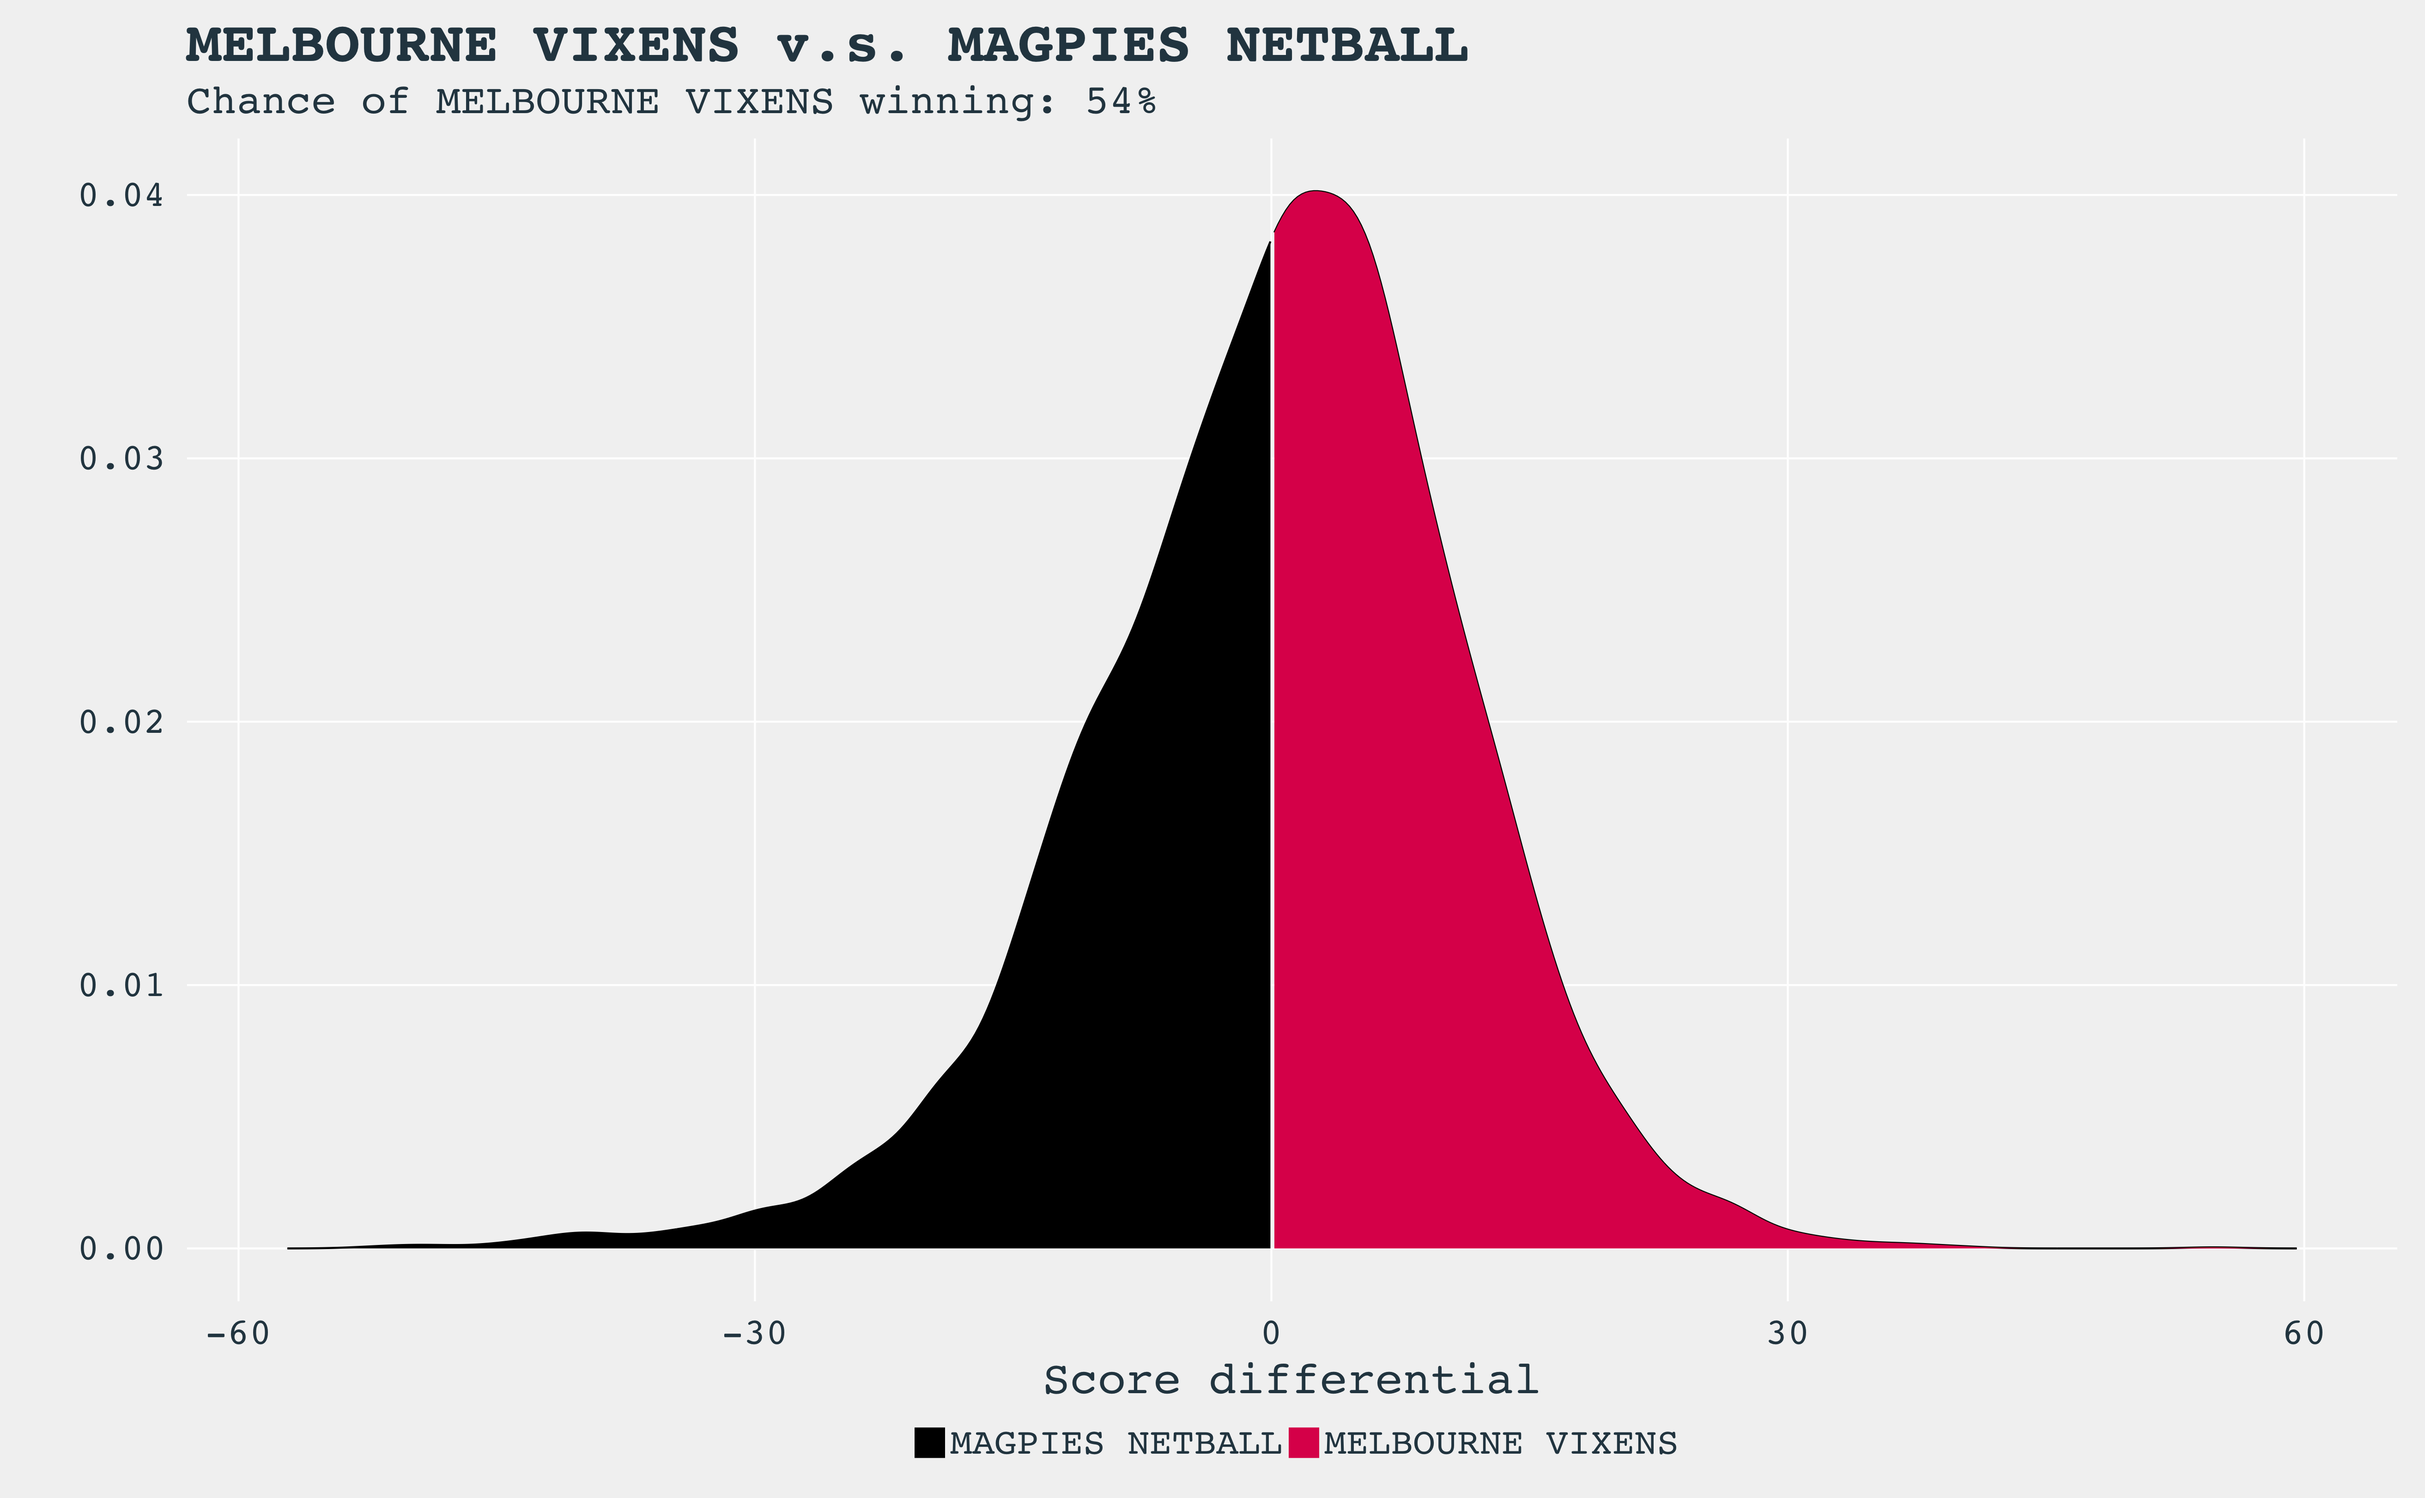
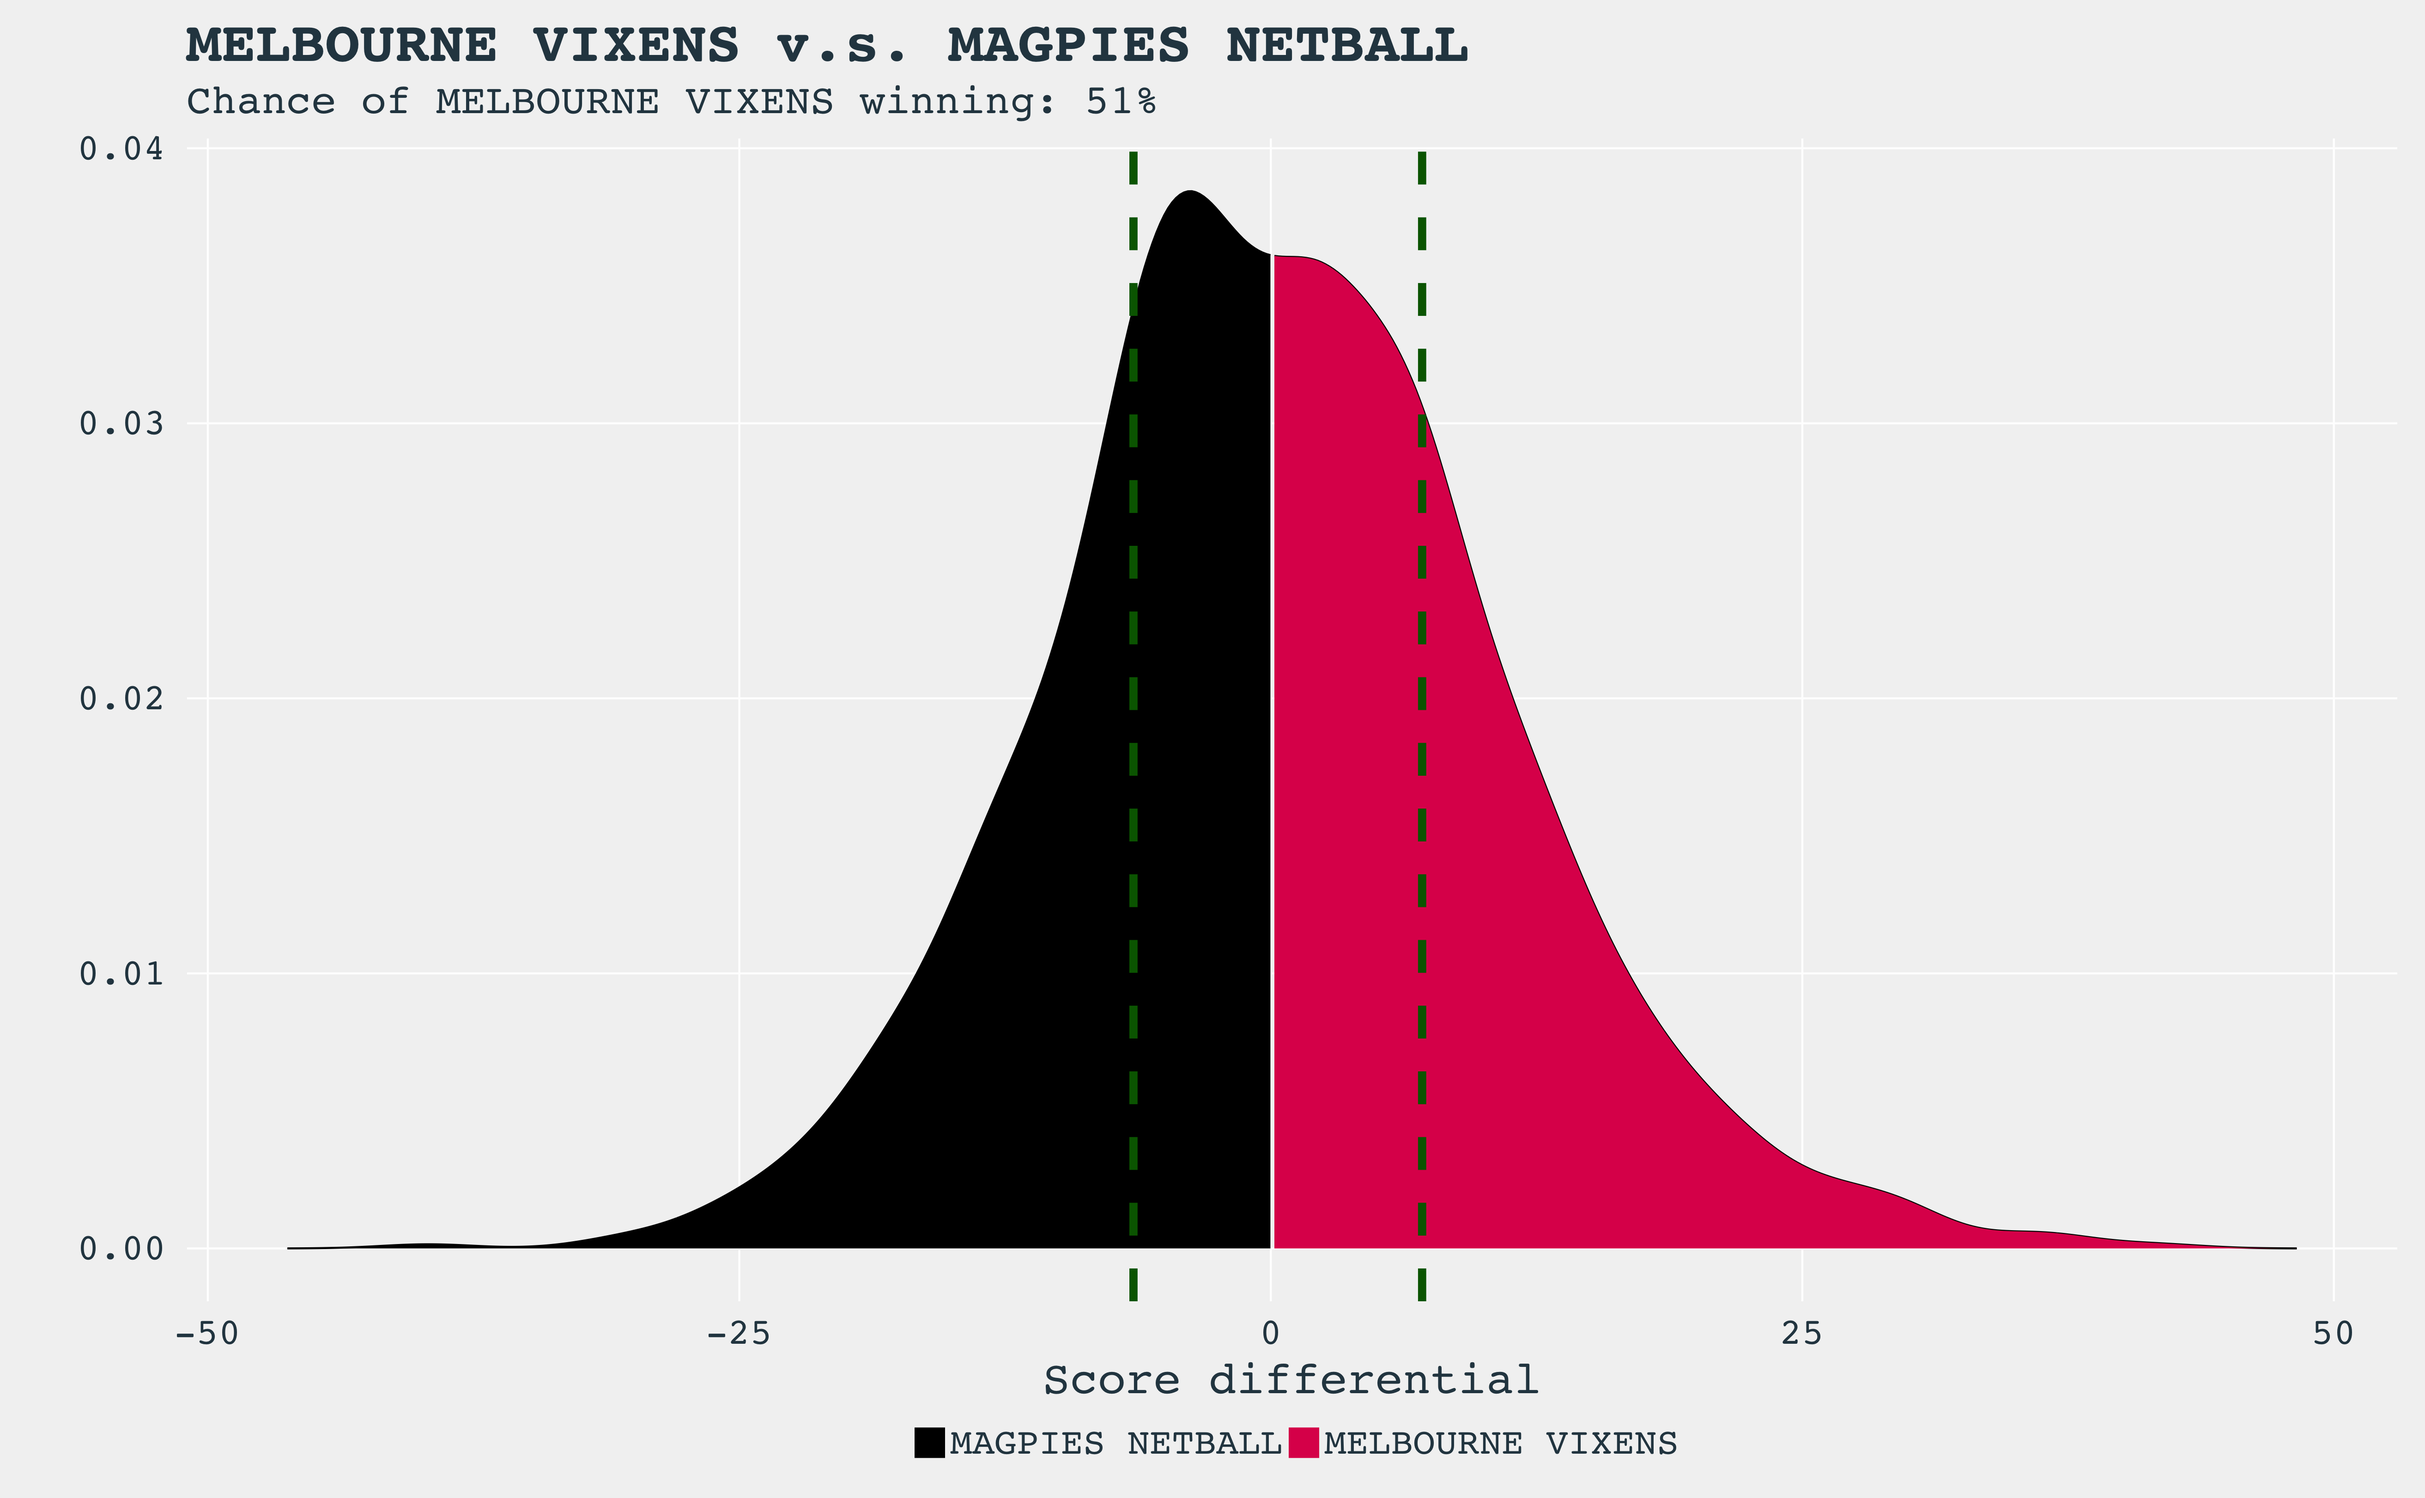
round one predictions

diff --git a/content/post/2018-04-25-round1.md b/content/post/2018-04-25-round1.md
@@ -1,0 +1,39 @@
+---
+title: "Round 1, 2018"
+description: "Super Netball Predictions"
+date: "2018-04-25"
+tags: ["r", "sports analytics"]
+categories: ["blog", "Super Netball"]
+---
+
+<!-- Time-stamp: <2018-04-25 19:44:07 (slane)> -->
+
+
+
+
+
+The first round of the 2018 Super Netball season is just about on us! Here's a summary of what [my model]({{< relref "2018-04-22-introduction.md" >}}) is predicting as the outcomes in the first round.
+
+
+|Home                  |Away                     |Chance of home team winning |
+|:---------------------|:------------------------|:---------------------------|
+|Melbourne Vixens      |Magpies Netball          |51%                         |
+|Adelaide Thunderbirds |West Coast Fever         |69%                         |
+|GIANTS Netball        |Sunshine Coast Lightning |25%                         |
+|NSW Swifts            |Queensland Firebirds     |16%                         |
+
+## Score Differential Distributions
+
+The distribution of the predicted score differentials is shown in the figures below. For each game, the chance of the home team winning is calculated and shown in the figure title. Each distribution is coloured by the team's colours, and the more of a single team's colour, the higher the chance that team has of winning. Overlaid on each figure are two vertical, dashed dark green lines; these show the score differential that has a 50% predicted chance of happening.
+
+!["game1"](/sn-assets/round1-2018/game-1.png)
+
+!["game2"](/sn-assets/round1-2018/game-2.png)
+
+!["game3"](/sn-assets/round1-2018/game-3.png)
+
+!["game4"](/sn-assets/round1-2018/game-4.png)
+
+## How are the predictions made?
+
+Check out the [introductory post]({{< relref "2018-04-22-introduction.md" >}}), and [this post]({{< relref "2018-04-25-new-season.md" >}}) explaining how predictions for the new 2018 season are formed.
